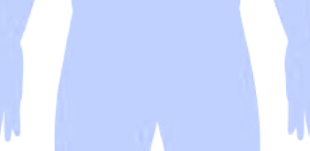
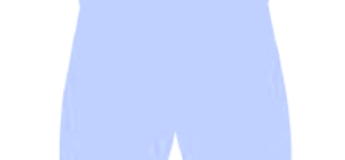
240106_증상검색

diff --git a/team2/public/js/main.js b/team2/public/js/main.js
@@ -3,6 +3,22 @@ let SYMPTOM = document.getElementById('symptom-display');
 let DISEASE = document.getElementById('disease-display');
 let MAPDISPLAY = document.getElementById('map-display');
 
+function bodyChkFront() {
+	document.getElementById('body-part-chk').style.display = 'block';
+	document.getElementById('body-part-chk-back').style.display = 'none';
+	document.getElementById('body-front').style.display = 'none';
+	document.getElementById('body-back').style.display = 'inline-block';
+}
+
+function bodyChkBack() {
+	document.getElementById('body-part-chk').style.display = 'none';
+	document.getElementById('body-part-chk-back').style.display = 'block';
+	document.getElementById('body-front').style.display = 'inline-block';
+	document.getElementById('body-back').style.display = 'none';
+}
+
+document.getElementById('body-front').style.display = 'none';
+document.getElementById('body-part-chk-back').style.display = 'none';
 document.getElementById('head-part-chk').style.display = 'none';
 document.getElementById('arm-part-chk').style.display = 'none';
 document.getElementById('front-part-chk').style.display = 'none';
@@ -199,7 +215,43 @@ function off_mouse_leg(index) {
 	}
 }
 
+function on_mouse_back(index) {
+	if(index === 1) {
+		document.getElementById('partchk-back-back').style.opacity = '1';
+	}
+	if(index === 2) {
+		document.getElementById('partchk-back-elbow').style.opacity = '1';
+		document.getElementById('partchk-back-elbow2').style.opacity = '1';
+	}
+	if(index === 3) {
+		document.getElementById('partchk-back-waist').style.opacity = '1';
+	}
+	if(index === 4) {
+		document.getElementById('partchk-back-hip').style.opacity = '1';
+	}
+}
+
+function off_mouse_back(index) {
+	if(index === 1) {
+		document.getElementById('partchk-back-back').style.opacity = '0.5';
+	}
+	if(index === 2) {
+		document.getElementById('partchk-back-elbow').style.opacity = '0.5';
+		document.getElementById('partchk-back-elbow2').style.opacity = '0.5';
+	}
+	if(index === 3) {
+		document.getElementById('partchk-back-waist').style.opacity = '0.5';
+	}
+	if(index === 4) {
+		document.getElementById('partchk-back-hip').style.opacity = '0.5';
+	}
+}
+
 function partclick(index) {
+	
+	document.getElementById('body-front').style.display = 'none';
+	document.getElementById('body-back').style.display = 'none';
+
 	if(index === 1) {
 		document.getElementById('body-part-chk').style.display = 'none';
 		document.getElementById('head-part-chk').style.display = 'block';

diff --git a/team2/public/css/main.css b/team2/public/css/main.css
@@ -4,7 +4,6 @@
 	box-sizing: border-box;
 }
 
-
 a {
 	color: black;
 	text-decoration: none;
@@ -500,16 +499,16 @@ button {
 
 .partchk-head-mouse {
 	position: absolute;
-	left: 126px;
-    top: 249px;
+	left: 133px;
+    top: 240px;
 	z-index: 1;
 	opacity: 0.5;
 }
 
 .partchk-head-neck {
 	position: absolute;
-	left: 133px;
-    top: 302px;
+	left: 126px;
+    top: 309px;
 	z-index: 1;
 	opacity: 0.5;
 }
@@ -611,30 +610,30 @@ button {
 	position: absolute;
 	z-index: 2;
 	opacity: 0.5;
-	right: 5px;
+	right: 24px;
     top: 76px;
 }
 
 .partchk-pan-pelvis {
 	position: absolute;
-	left: 69px;
-    top: 100px;
+	left: 103px;
+    top: 86px;
 	z-index: 1;
 	opacity: 0.5;
 }
 
 .partchk-pan-pelvis2 {
 	position: absolute;
-	left: 175px;
-    top: 102px;
+	left: 210px;
+    top: 86px;
 	z-index: 1;
 	opacity: 0.5;
 }
 
 .partchk-pan-genital {
 	position: absolute;
-	left: 122px;
-    top: 106px;
+	left: 154px;
+    top: 79px;
 	z-index: 1;
 	opacity: 0.5;
 }
@@ -691,23 +690,62 @@ button {
 
 /* ------------------------------- */
 
-.main-body-front-back {
-	display: inline-block;
-	width: 100px;
-	height: 50px;
-	line-height: 50px;
-	border: 1px solid #2C2B71;
-	border-radius: 50px;
+.partchk-body-back {
+	position: absolute;
+	z-index: 2;
+	opacity: 0.5;
+	left: 0;
 }
 
-.main-body-front-back-btn {
+.partchk-back-back {
+	position: absolute;
+	left: 83px;
+    top: 135px;
+	z-index: 1;
+	opacity: 0.5;
+}
+
+.partchk-back-elbow {
+	position: absolute;
+	left: 39px;
+    top: 233px;
+	z-index: 1;
+	opacity: 0.5;
+}
+
+.partchk-back-elbow2 {
+	position: absolute;
+	left: 234px;
+    top: 242px;
+	z-index: 1;
+	opacity: 0.5;
+}
+
+.partchk-back-waist {
+	position: absolute;
+	left: 81px;
+    top: 257px;
+	z-index: 1;
+	opacity: 0.5;
+}
+
+.partchk-back-hip {
+	position: absolute;
+	left: 83px;
+    top: 356px;
+	z-index: 1;
+	opacity: 0.5;
+}
+
+/* ------------------------------- */
+
+.main-body-front-back {
 	display: inline-block;
-	width: 100px;
-	height: 50px;
-	line-height: 50px;
-	border-radius: 50px;
-	background-color: #2C2B71;
-	color: #fff;
+	border: 3px solid #2C2B71;
+    border-radius: 50px;
+    padding: 15px 40px;
+    font-size: 1.4rem;
+	cursor: pointer;
 }
 
 @media only screen and (max-width:1300px) {

diff --git a/team2/resources/views/main.blade.php b/team2/resources/views/main.blade.php
@@ -10,7 +10,7 @@
 			<div><span class="text-part">#부위</span>를 선택해 주세요</div>
 			<br>
 			<div class="part-box" id="body-part-chk">
-				<img class="partchk-body" src="/img/body.png" usemap="#partchk" alt="사람이미지">
+				<img class="partchk-body" src="/img/body.png" usemap="#partchk" alt="">
 				<map name="partchk">
 					<area onmouseover="on_mouse(1); return false;" onmouseout="off_mouse(1); return false;" onclick="partclick(1); return false;" shape="poly" coords="153,16,131,26,121,44,127,61,129,79,138,91,142,105,144,113,165,116,172,106,175,89,182,76,187,57,187,40,179,26,165,15,152,17" href=""/>
 					<area onmouseover="on_mouse(2); return false;" onmouseout="off_mouse(2); return false;" onclick="partclick(2); return false;" shape="poly" coords="90,144,67,152,56,180,59,201,60,210,51,248,51,271,45,288,44,310,39,337,39,362,35,379,22,396,20,410,49,419,51,411,48,384,51,367,66,330,72,299,73,264,82,245,93,215,96,144,91,143" href=""/>
@@ -38,12 +38,12 @@
 			<div class="head-part-box" id="head-part-chk">
 				<img class="head-detail" src="/img/head-detail.png" usemap="#headpartchk" alt="">
 				<map name="headpartchk">
-					<area onmouseover="on_mouse_head(1); return false;" onmouseout="off_mouse_head(1); return false;" shape="poly" coords="124,35,110,35,99,35,87,43,74,51,69,56,63,62,61,69,60,73,58,79,55,84,55,88,55,93,56,98,60,101,76,107,79,108,84,108,91,110,101,115,113,116,119,117,126,118,137,117,144,116,152,113,163,109,170,108,174,105,179,104,184,100,188,98,191,95,193,92,193,83,190,73,183,62,178,51,170,47,152,37,128,33,114,34" href=""/>
-					<area onmouseover="on_mouse_head(2); return false;" onmouseout="off_mouse_head(2); return false;" shape="poly" coords="66,127,66,135,68,142,71,144,75,145,84,145,97,146,106,146,112,143,113,138,111,131,105,123,99,118,90,116,80,114,68,114,65,116,65,123,65,125,66,128" href=""/>
-					<area onmouseover="on_mouse_head(2); return false;" onmouseout="off_mouse_head(2); return false;" shape="poly" coords="149,145,155,145,165,145,179,145,183,143,184,141,187,137,187,135,187,132,184,123,182,116,175,113,169,114,155,117,148,119,142,124,141,129,141,134,145,142,146,142,149,143,149,143" href=""/>
-					<area onmouseover="on_mouse_head(3); return false;" onmouseout="off_mouse_head(3); return false;" shape="poly" coords="126,132,120,136,116,139,115,144,112,153,112,160,112,165,112,168,116,172,119,174,126,176,131,176,134,175,139,173,141,168,141,164,143,157,143,154,142,150,141,148,141,142,138,139,136,134,133,133,129,132" href=""/>
-					<area onmouseover="on_mouse_head(4); return false;" onmouseout="off_mouse_head(4); return false;" shape="poly" coords="126,182,118,181,113,181,105,181,100,182,92,186,85,191,83,197,84,202,87,209,92,212,99,215,105,216,115,216,122,216,134,217,141,218,147,218,154,216,157,215,161,212,163,209,164,206,164,202,164,200,163,196,160,193,155,189,153,188,143,185,130,182,119,182,120,181" href=""/>
-					<area onmouseover="on_mouse_head(5); return false;" onmouseout="off_mouse_head(5); return false;" shape="poly" coords="87,227,86,240,86,246,88,252,94,255,98,257,110,259,117,259,126,259,138,256,154,257,160,256,164,254,166,250,168,245,168,239,168,235,166,231,164,229,156,229,151,227,148,228,140,229,135,229,120,230,102,228,95,224,89,226,85,226" href=""/>
+					<area onmouseover="on_mouse_head(1); return false;" onmouseout="off_mouse_head(1); return false;" shape="poly" coords="170,44,151,44,129,49,107,63,92,76,82,87,75,97,70,106,70,120,80,128,95,142,112,151,132,161,152,163,178,167,201,162,228,154,247,145,268,135,276,122,274,108,265,90,253,73,237,58,212,46,184,43,169,44,169,44" href=""/>
+					<area onmouseover="on_mouse_head(2); return false;" onmouseout="off_mouse_head(2); return false;" shape="poly" coords="143,181,132,172,123,163,109,160,89,160,76,168,76,181,78,192,83,199,90,205,103,207,114,206,129,205,142,204,145,196,145,186,145,182" href=""/>
+					<area onmouseover="on_mouse_head(2); return false;" onmouseout="off_mouse_head(2); return false;" shape="poly" coords="243,164,234,161,221,159,215,162,207,164,197,174,198,186,205,197,222,203,233,204,250,201,263,197,268,189,268,175,264,166,254,161,242,161,239,162" href=""/>
+					<area onmouseover="on_mouse_head(3); return false;" onmouseout="off_mouse_head(3); return false;" shape="poly" coords="171,172,162,173,153,184,150,199,150,218,150,238,157,248,177,250,186,247,197,238,198,222,194,203,193,188,186,178,175,173,174,173" href=""/>
+					<area onmouseover="on_mouse_head(4); return false;" onmouseout="off_mouse_head(4); return false;" shape="poly" coords="111,257,112,283,116,300,133,304,161,311,186,312,207,309,226,298,236,288,239,267,237,254,215,252,196,257,182,260,162,260,145,253,122,250,114,252,112,258" href=""/>
+					<area onmouseover="on_mouse_head(5); return false;" onmouseout="off_mouse_head(5); return false;" shape="poly" coords="171,315,153,314,135,318,115,323,109,334,107,348,114,361,126,368,139,369,156,369,176,369,222,368,231,360,242,348,242,333,230,321,205,315,174,314,171,314" href=""/>
 				</map>
 
 				<img id="partchk-head-brain" class="partchk-head-brain" src="/img/brain.png" alt="">
@@ -57,10 +57,10 @@
 			<div class="arm-part-box" id="arm-part-chk">
 				<img class="arm-detail" src="/img/arm-detail.png" usemap="#armpartchk" alt="">
 				<map name="armpartchk">
-					<area onmouseover="on_mouse_arm(1); return false;" onmouseout="off_mouse_arm(1); return false;" shape="poly" coords="99,22,91,27,82,34,76,45,70,62,67,72,67,86,68,95,72,104,80,111,92,122,96,127,99,130,99,22" href=""/>
-					<area onmouseover="on_mouse_arm(2); return false;" onmouseout="off_mouse_arm(2); return false;" shape="poly" coords="64,106,60,129,56,142,54,161,56,171,53,182,49,197,47,217,47,231,45,242,56,246,65,247,72,246,74,236,78,221,82,208,82,187,82,175,84,166,92,148,94,138,93,130,70,111,64,105" href=""/>
-					<area onmouseover="on_mouse_arm(3); return false;" onmouseout="off_mouse_arm(3); return false;" shape="poly" coords="41,271,41,280,46,286,52,286,58,283,60,280,63,273,65,267,68,259,68,254,63,251,55,249,46,248,43,249,42,261,42,266" href=""/>
-					<area onmouseover="on_mouse_arm(4); return false;" onmouseout="off_mouse_arm(4); return false;" shape="poly" coords="32,299,29,304,25,313,23,323,29,325,32,327,32,337,34,341,39,335,43,335,41,343,42,346,45,345,49,341,51,343,52,348,58,348,61,344,60,335,60,328,60,316,61,306,60,298,52,293,43,292,33,293,30,301" href=""/>
+					<area onmouseover="on_mouse_arm(1); return false;" onmouseout="off_mouse_arm(1); return false;" shape="poly" coords="142,28,127,39,110,55,97,74,93,96,93,108,95,121,114,136,137,154,144,159,143,30" href=""/>
+					<area onmouseover="on_mouse_arm(2); return false;" onmouseout="off_mouse_arm(2); return false;" shape="poly" coords="141,179,139,169,130,161,115,151,99,141,91,141,85,161,79,188,75,213,75,232,77,243,71,259,65,283,63,309,62,329,105,342,113,315,123,285,120,247,132,222,141,180" href=""/>
+					<area onmouseover="on_mouse_arm(3); return false;" onmouseout="off_mouse_arm(3); return false;" shape="poly" coords="60,389,59,401,62,409,75,413,86,405,89,391,99,371,99,360,89,354,75,350,61,350,59,363,60,387" href=""/>
+					<area onmouseover="on_mouse_arm(4); return false;" onmouseout="off_mouse_arm(4); return false;" shape="poly" coords="48,414,37,426,29,458,42,467,78,488,88,472,88,428,70,416,49,413" href=""/>
 				</map>
 
 				<img id="partchk-arm-shoulder" class="partchk-arm-shoulder" src="/img/shoulder.png" alt="">
@@ -72,8 +72,8 @@
 			<div class="front-part-box" id="front-part-chk">
 				<img class="front-detail" src="/img/front-detail.png" usemap="#frontpartchk" alt="">
 				<map name="frontpartchk">
-					<area onmouseover="on_mouse_front(1); return false;" onmouseout="off_mouse_front(1); return false;" shape="poly" coords="147,111,145,91,174,85,200,88,210,109,205,132,199,159,192,163,169,157,155,133,148,114" href=""/>
-					<area onmouseover="on_mouse_front(2); return false;" onmouseout="off_mouse_front(2); return false;" shape="poly" coords="120,47,101,54,86,65,73,83,67,119,71,159,79,175,90,174,121,164,139,143,136,120,133,118,133,85,133,61,121,47" href=""/>
+					<area onmouseover="on_mouse_front(1); return false;" onmouseout="off_mouse_front(1); return false;" shape="poly" coords="241,94,232,97,214,104,207,112,205,128,205,142,209,157,219,170,238,186,256,194,279,197,292,187,292,157,288,126,271,103,244,94,243,94" href=""/>
+					<area onmouseover="on_mouse_front(2); return false;" onmouseout="off_mouse_front(2); return false;" shape="poly" coords="161,61,148,64,134,73,124,84,114,96,108,105,103,122,98,137,94,152,92,170,90,183,90,196,90,207,91,213,93,225,95,235,97,242,100,250,106,259,116,263,131,263,142,258,157,249,171,240,180,232,190,223,196,213,197,201,195,192,191,181,187,173,188,160,187,137,184,121,182,100,182,87,182,69,177,60,164,59" href=""/>
 				</map>
 
 				<img id="partchk-front-heart" class="partchk-front-heart" src="/img/heart.png" alt="">
@@ -83,9 +83,9 @@
 			<div class="pan-part-box" id="pan-part-chk">
 				<img class="pan-detail" src="/img/pan-detail.png" usemap="#panpartchk" alt="">
 				<map name="panpartchk">
-					<area onmouseover="on_mouse_pan(1); return false;" onmouseout="off_mouse_pan(1); return false;" shape="poly" coords="73,37,72,50,69,64,66,81,71,95,89,100,112,107,133,109,143,107,145,101,143,92,138,83,133,78,125,73,121,66,114,55,106,46,90,38,76,34,72,39" href=""/>
-					<area onmouseover="on_mouse_pan(1); return false;" onmouseout="off_mouse_pan(1); return false;" shape="poly" coords="230,26,235,40,239,55,243,70,247,88,243,98,231,98,210,100,190,103,175,102,176,93,182,85,192,81,197,77,202,72,207,63,212,54,217,43,219,36,223,31,227,27" href=""/>
-					<area onmouseover="on_mouse_pan(2); return false;" onmouseout="off_mouse_pan(2); return false;" shape="poly" coords="156,27,130,28,119,33,124,44,131,62,141,78,148,88,155,95,162,91,173,82,180,75,187,65,191,53,198,40,199,30,182,28,158,26,152,28" href=""/>
+					<area onmouseover="on_mouse_pan(1); return false;" onmouseout="off_mouse_pan(1); return false;" shape="poly" coords="85,27,79,59,80,84,95,98,136,111,167,114,171,96,149,80,129,48,109,29,84,20,84,26" href=""/>
+					<area onmouseover="on_mouse_pan(1); return false;" onmouseout="off_mouse_pan(1); return false;" shape="poly" coords="185,109,190,115,199,114,216,109,226,108,240,103,258,96,268,89,273,82,276,73,274,59,271,44,268,31,268,13,265,8,259,6,248,13,240,23,234,33,231,43,224,59,220,70,202,83,184,100,185,109" href=""/>
+					<area onmouseover="on_mouse_pan(2); return false;" onmouseout="off_mouse_pan(2); return false;" shape="poly" coords="127,14,166,10,221,11,229,12,229,21,224,37,217,50,207,67,193,83,185,88,173,89,158,74,150,60,138,36,132,19,128,13" href=""/>
 				</map>
 
 				<img id="partchk-pan-pelvis" class="partchk-pan-pelvis" src="/img/pelvis.png" alt="">
@@ -108,14 +108,31 @@
 				<img id="partchk-leg-foot" class="partchk-leg-foot" src="/img/foot.png" alt="">
 			</div>
 
+			<div class="part-box" id="body-part-chk-back">
+				<img class="partchk-body-back" src="/img/body-back.png" usemap="#partchk-back" alt="">
+				<map name="partchk-back">
+					<area onmouseover="on_mouse_back(1); return false;" onmouseout="off_mouse_back(1); return false;"  shape="poly" coords="160,144,136,147,116,151,106,160,96,175,94,185,94,197,97,215,106,228,113,237,125,243,140,245,175,246,197,246,219,238,228,224,231,207,224,176,207,148,183,142,161,143" href="">
+					<area onmouseover="on_mouse_back(2); return false;" onmouseout="off_mouse_back(2); return false;"  shape="poly" coords="52,246,50,258,51,266,52,270,52,274,49,279,47,284,46,289,45,292,47,296,57,298,66,299,74,299,77,296,78,282,77,275,79,267,84,255,82,249,56,242,52,246,52,246" href="">
+					<area onmouseover="on_mouse_back(2); return false;" onmouseout="off_mouse_back(2); return false;"  shape="poly" coords="262,244,250,245,238,250,234,256,237,264,241,270,243,282,243,294,250,295,260,298,271,296,276,292,269,270,270,247,263,244" href="">
+					<area onmouseover="on_mouse_back(3); return false;" onmouseout="off_mouse_back(3); return false;"  shape="poly" coords="103,319,100,333,103,345,100,356,98,365,226,365,220,336,223,331,218,308,221,285,220,270,102,269,102,295,103,319" href="">
+					<area onmouseover="on_mouse_back(4); return false;" onmouseout="off_mouse_back(4); return false;"  shape="poly" coords="100,372,223,372,230,390,235,414,237,431,210,438,164,430,122,439,89,428,93,399,98,375" href="">
+				</map>
+
+				<img id="partchk-back-back" class="partchk-back-back" src="/img/back.png" alt="">
+				<img id="partchk-back-elbow" class="partchk-back-elbow" src="/img/elbow.png" alt="">
+				<img id="partchk-back-elbow2" class="partchk-back-elbow2" src="/img/elbow2.png" alt="">
+				<img id="partchk-back-waist" class="partchk-back-waist" src="/img/waist.png" alt="">
+				<img id="partchk-back-hip" class="partchk-back-hip" src="/img/hip.png" alt="">
+			</div>
+
 			<div class="main-body-button">
-				<div class="main-body-front-back-btn">정면</div>
-				<div class="main-body-front-back">후면</div>
+				<div class="main-body-front-back" id="body-front" onclick="bodyChkFront(); return false;">앞면</div>
+				<div class="main-body-front-back" id="body-back" onclick="bodyChkBack(); return false;">후면</div>
 			</div>
 			<br>
 		</div>
 	</div>
-	
+<br><br><br>
 </main>
 
 	<script type="text/javascript" src="//dapi.kakao.com/v2/maps/sdk.js?appkey=6b402b118a5747fb73298eeccdc8b838&libraries=services"></script>
